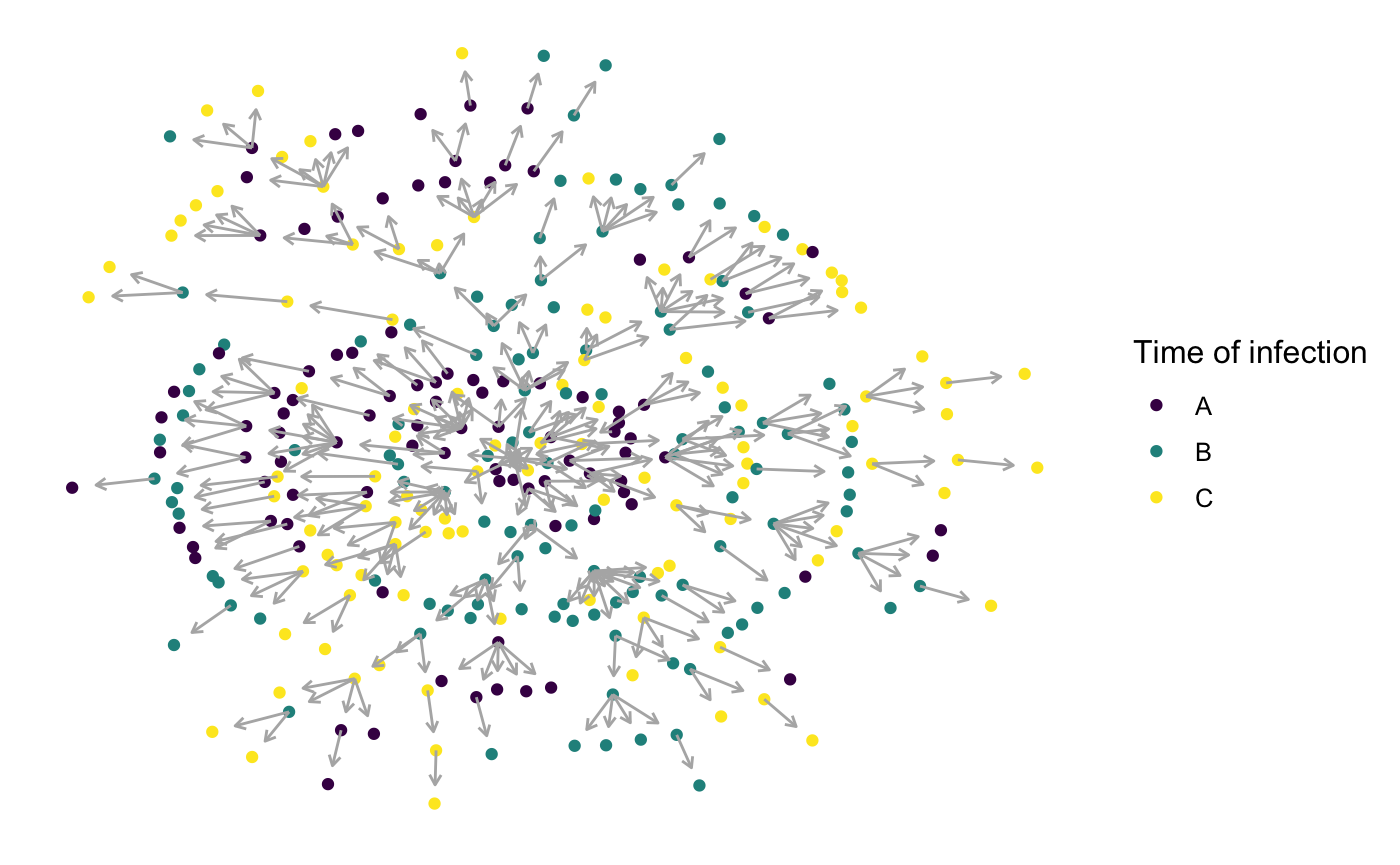
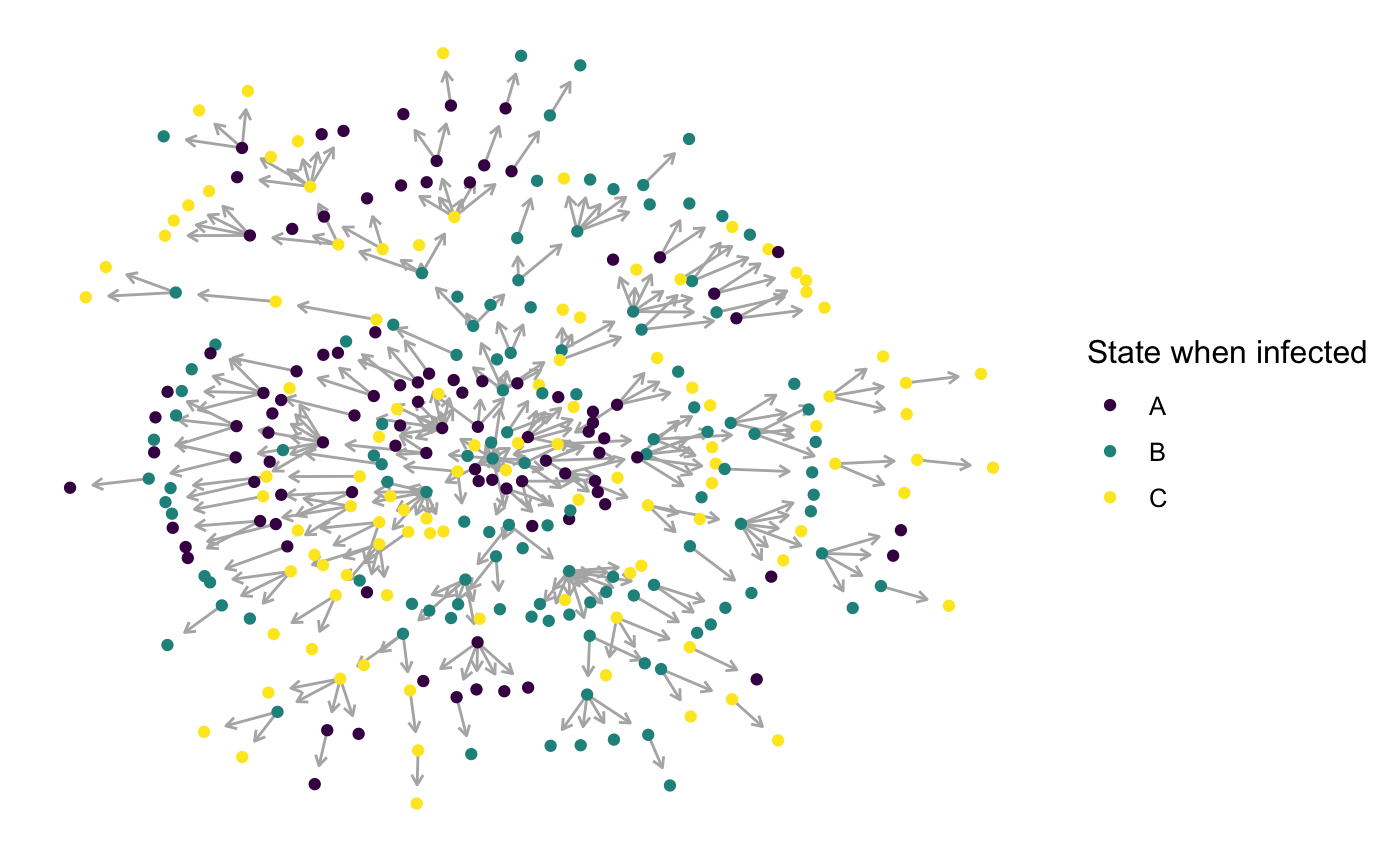
update tutorial
Update tutorial discrete with new visualisation

diff --git a/docs/articles/discrete.html b/docs/articles/discrete.html
@@ -147,7 +147,7 @@
       <h1>Spread of a pathogen in a discrete structured population</h1>
                         <h4 class="author">Sebastian Lequime</h4>
             
-            <h4 class="date">2019-04-26</h4>
+            <h4 class="date">2019-04-29</h4>
       
       <small class="dont-index">Source: <a href="https://github.com/slequime/nosoi/blob/master/vignettes/discrete.Rmd"><code>vignettes/discrete.Rmd</code></a></small>
       <div class="hidden name"><code>discrete.Rmd</code></div>
@@ -457,10 +457,68 @@ graph.simA.network =<span class="st"> </span><span class="kw"><a href="https://w
 
 <span class="co">#plotting the network</span>
 <span class="kw"><a href="https://www.rdocumentation.org/packages/ggplot2/topics/ggplot">ggplot</a></span>(graph.simA.network, <span class="kw"><a href="https://www.rdocumentation.org/packages/ggplot2/topics/aes">aes</a></span>(<span class="dt">x =</span> x, <span class="dt">y =</span> y, <span class="dt">xend =</span> xend, <span class="dt">yend =</span> yend)) <span class="op">+</span>
-<span class="st">  </span><span class="kw"><a href="https://www.rdocumentation.org/packages/ggnetwork/topics/geom_nodes">geom_nodes</a></span>(<span class="kw"><a href="https://www.rdocumentation.org/packages/ggplot2/topics/aes">aes</a></span>(<span class="dt">color=</span>inf.in)) <span class="op">+</span><span class="st"> </span><span class="kw"><a href="https://www.rdocumentation.org/packages/viridis/topics/scale_viridis">scale_color_viridis</a></span>(<span class="dt">name=</span><span class="st">"Time of infection"</span>,<span class="dt">discrete =</span> <span class="ot">TRUE</span>) <span class="op">+</span><span class="st"> </span>
 <span class="st">  </span><span class="kw"><a href="https://www.rdocumentation.org/packages/ggnetwork/topics/geom_edges">geom_edges</a></span>(<span class="dt">color =</span> <span class="st">"grey70"</span>,<span class="dt">arrow =</span> <span class="kw"><a href="https://www.rdocumentation.org/packages/ggplot2/topics/reexports">arrow</a></span>(<span class="dt">length =</span> <span class="kw"><a href="https://www.rdocumentation.org/packages/ggplot2/topics/reexports">unit</a></span>(<span class="fl">0.3</span>, <span class="st">"lines"</span>), <span class="dt">type =</span> <span class="st">"open"</span>)) <span class="op">+</span>
+<span class="st">    </span><span class="kw"><a href="https://www.rdocumentation.org/packages/ggnetwork/topics/geom_nodes">geom_nodes</a></span>(<span class="kw"><a href="https://www.rdocumentation.org/packages/ggplot2/topics/aes">aes</a></span>(<span class="dt">color=</span>inf.in)) <span class="op">+</span><span class="st"> </span><span class="kw"><a href="https://www.rdocumentation.org/packages/viridis/topics/scale_viridis">scale_color_viridis</a></span>(<span class="dt">name=</span><span class="st">"State when infected"</span>,<span class="dt">discrete =</span> <span class="ot">TRUE</span>) <span class="op">+</span><span class="st"> </span>
 <span class="st">  </span><span class="kw"><a href="https://www.rdocumentation.org/packages/ggnetwork/topics/theme_blank">theme_blank</a></span>()</code></pre></div>
 <p><img src="discrete_files/figure-html/visualisation-1.png" width="700"></p>
+<p>The following animated plot shows the number of infected host per state per unit of time, as well as movement events between state at said unit of time.</p>
+<div class="sourceCode"><pre class="sourceCode r"><code class="sourceCode r"><span class="co">#Packages needed:</span>
+<span class="kw"><a href="https://www.rdocumentation.org/packages/base/topics/library">library</a></span>(ggplot2)
+<span class="kw"><a href="https://www.rdocumentation.org/packages/base/topics/library">library</a></span>(viridis)
+<span class="kw"><a href="https://www.rdocumentation.org/packages/base/topics/library">library</a></span>(igraph)
+<span class="kw"><a href="https://www.rdocumentation.org/packages/base/topics/library">library</a></span>(ggnetwork)
+<span class="kw"><a href="https://www.rdocumentation.org/packages/base/topics/library">library</a></span>(tidyverse)
+<span class="kw"><a href="https://www.rdocumentation.org/packages/base/topics/library">library</a></span>(gganimate)
+
+<span class="co">#Getting the layout for the states (as above)</span>
+
+transition.matrix =<span class="st"> </span><span class="kw"><a href="https://www.rdocumentation.org/packages/base/topics/matrix">matrix</a></span>(<span class="kw"><a href="https://www.rdocumentation.org/packages/base/topics/c">c</a></span>(<span class="dv">0</span>,<span class="fl">0.2</span>,<span class="fl">0.4</span>,<span class="fl">0.5</span>,<span class="dv">0</span>,<span class="fl">0.6</span>,<span class="fl">0.5</span>,<span class="fl">0.8</span>,<span class="dv">0</span>),<span class="dt">nrow =</span> <span class="dv">3</span>, <span class="dt">ncol =</span> <span class="dv">3</span>,<span class="dt">dimnames=</span><span class="kw"><a href="https://www.rdocumentation.org/packages/base/topics/list">list</a></span>(<span class="kw"><a href="https://www.rdocumentation.org/packages/base/topics/c">c</a></span>(<span class="st">"A"</span>,<span class="st">"B"</span>,<span class="st">"C"</span>),<span class="kw"><a href="https://www.rdocumentation.org/packages/base/topics/c">c</a></span>(<span class="st">"A"</span>,<span class="st">"B"</span>,<span class="st">"C"</span>)))
+
+melted.transition.matrix &lt;-<span class="st"> </span>reshape2<span class="op">::</span><span class="kw"><a href="https://www.rdocumentation.org/packages/reshape2/topics/melt">melt</a></span>(transition.matrix, <span class="dt">varnames =</span> <span class="kw"><a href="https://www.rdocumentation.org/packages/base/topics/c">c</a></span>(<span class="st">"from"</span>,<span class="st">"to"</span>),<span class="dt">value.name=</span><span class="st">"prob"</span>, <span class="dt">as.is =</span> <span class="ot">TRUE</span>) <span class="co">#melting the matrix go get from -&gt; to in one line with probability</span>
+
+melted.transition.matrix =<span class="st"> </span><span class="kw"><a href="https://www.rdocumentation.org/packages/base/topics/subset">subset</a></span>(melted.transition.matrix, prob<span class="op">!=</span><span class="dv">0</span>)
+
+graph.Matrix &lt;-<span class="st"> </span><span class="kw"><a href="https://www.rdocumentation.org/packages/igraph/topics/graph_from_data_frame">graph.data.frame</a></span>(melted.transition.matrix,<span class="dt">directed=</span>T)
+
+layout =<span class="st"> </span><span class="kw"><a href="https://www.rdocumentation.org/packages/ggnetwork/topics/ggnetwork">ggnetwork</a></span>(graph.Matrix, <span class="dt">layout =</span> <span class="st">"circle"</span>,<span class="dt">arrow.gap=</span><span class="fl">0.18</span>)[<span class="kw"><a href="https://www.rdocumentation.org/packages/base/topics/c">c</a></span>(<span class="dv">1</span><span class="op">:</span><span class="dv">3</span>),<span class="kw"><a href="https://www.rdocumentation.org/packages/base/topics/c">c</a></span>(<span class="dv">1</span>,<span class="dv">2</span>,<span class="dv">4</span>)] <span class="co">#using ggnetwork to provide the layout</span>
+
+<span class="co">#Loading data from the simulation</span>
+
+test =<span class="st"> </span>SimulationA<span class="op">$</span>table.state
+
+<span class="co">#Loop to get the number of infected in each state per unit of time</span>
+results=<span class="kw"><a href="https://www.rdocumentation.org/packages/base/topics/data.frame">data.frame</a></span>()
+<span class="cf">for</span> (i <span class="cf">in</span> <span class="dv">1</span><span class="op">:</span><span class="kw"><a href="https://www.rdocumentation.org/packages/base/topics/Extremes">max</a></span>(test<span class="op">$</span>time.from)) {
+  temp =<span class="st"> </span><span class="kw"><a href="https://www.rdocumentation.org/packages/base/topics/subset">subset</a></span>(test, time.from <span class="op">&lt;=</span><span class="st"> </span>i <span class="op">&amp;</span><span class="st"> </span><span class="kw"><a href="https://www.rdocumentation.org/packages/base/topics/c">c</a></span>(time.to <span class="op">&gt;</span><span class="st"> </span>i <span class="op">|</span><span class="kw"><a href="https://www.rdocumentation.org/packages/base/topics/NA">is.na</a></span>(time.to)))[,<span class="kw"><a href="https://www.rdocumentation.org/packages/base/topics/c">c</a></span>(<span class="st">"hosts.ID"</span>,<span class="st">"state"</span>)]
+  temp<span class="op">$</span>time =<span class="st"> </span>i
+  results=data.table<span class="op">::</span><span class="kw">rbindlist</span>(<span class="kw"><a href="https://www.rdocumentation.org/packages/base/topics/c">c</a></span>(<span class="kw"><a href="https://www.rdocumentation.org/packages/base/topics/list">list</a></span>(temp),<span class="kw"><a href="https://www.rdocumentation.org/packages/base/topics/list">list</a></span>(results)))
+}
+
+test2 =<span class="st"> </span>results <span class="op">%&gt;%</span><span class="st"> </span><span class="kw">group_by</span>(time,state) <span class="op">%&gt;%</span><span class="st"> </span><span class="kw">summarise</span>(<span class="dt">N=</span><span class="kw"><a href="https://www.rdocumentation.org/packages/base/topics/length">length</a></span>(hosts.ID)) <span class="op">%&gt;%</span><span class="st"> </span><span class="kw">left_join</span>(layout,<span class="dt">by=</span><span class="kw"><a href="https://www.rdocumentation.org/packages/base/topics/c">c</a></span>(<span class="st">"state"</span>=<span class="st">"vertex.names"</span>))
+
+<span class="co">#Loop to get the transitions between states and their time</span>
+results2=<span class="kw"><a href="https://www.rdocumentation.org/packages/base/topics/data.frame">data.frame</a></span>()
+<span class="cf">for</span> (i <span class="cf">in</span> <span class="kw"><a href="https://www.rdocumentation.org/packages/base/topics/unique">unique</a></span>(test<span class="op">$</span>hosts.ID)) {
+  subset.current =<span class="st"> </span>test[i]
+  <span class="cf">if</span>(<span class="kw"><a href="https://www.rdocumentation.org/packages/base/topics/nrow">nrow</a></span>(subset.current) <span class="op">&gt;</span><span class="st"> </span><span class="dv">1</span>){
+  <span class="cf">for</span> (j <span class="cf">in</span> <span class="dv">1</span><span class="op">:</span>(<span class="kw"><a href="https://www.rdocumentation.org/packages/base/topics/nrow">nrow</a></span>(subset.current)<span class="op">-</span><span class="dv">1</span>)){
+    temp =<span class="st"> </span><span class="kw">data.table</span>(<span class="dt">hosts.ID=</span>i,<span class="dt">time=</span><span class="kw"><a href="https://www.rdocumentation.org/packages/base/topics/integer">as.integer</a></span>(subset.current[j]<span class="op">$</span>time.to),<span class="dt">from=</span>subset.current[j]<span class="op">$</span>state,<span class="dt">to=</span>subset.current[j<span class="op">+</span><span class="dv">1</span>]<span class="op">$</span>state)
+   results2=data.table<span class="op">::</span><span class="kw">rbindlist</span>(<span class="kw"><a href="https://www.rdocumentation.org/packages/base/topics/c">c</a></span>(<span class="kw"><a href="https://www.rdocumentation.org/packages/base/topics/list">list</a></span>(temp),<span class="kw"><a href="https://www.rdocumentation.org/packages/base/topics/list">list</a></span>(results2)))
+    }}}
+
+test3 =<span class="st"> </span>results2 <span class="op">%&gt;%</span><span class="st"> </span><span class="kw">group_by</span>(time,from,to) <span class="op">%&gt;%</span><span class="st"> </span><span class="kw">summarise</span>(<span class="dt">N=</span><span class="kw"><a href="https://www.rdocumentation.org/packages/base/topics/length">length</a></span>(hosts.ID)) <span class="op">%&gt;%</span><span class="st"> </span><span class="kw">left_join</span>(layout,<span class="dt">by=</span><span class="kw"><a href="https://www.rdocumentation.org/packages/base/topics/c">c</a></span>(<span class="st">"from"</span>=<span class="st">"vertex.names"</span>)) <span class="op">%&gt;%</span><span class="st"> </span><span class="kw">left_join</span>(layout,<span class="dt">by=</span><span class="kw"><a href="https://www.rdocumentation.org/packages/base/topics/c">c</a></span>(<span class="st">"to"</span>=<span class="st">"vertex.names"</span>),<span class="dt">suffix=</span><span class="kw"><a href="https://www.rdocumentation.org/packages/base/topics/c">c</a></span>(<span class="st">"from"</span>,<span class="st">"to"</span>))
+
+<span class="co">#Animated plot (using gganimate):</span>
+animated.plot =<span class="st"> </span><span class="kw"><a href="https://www.rdocumentation.org/packages/ggplot2/topics/ggplot">ggplot</a></span>() <span class="op">+</span>
+<span class="st">  </span><span class="kw"><a href="https://www.rdocumentation.org/packages/ggplot2/topics/geom_point">geom_point</a></span>(<span class="dt">data=</span>test2,<span class="kw"><a href="https://www.rdocumentation.org/packages/ggplot2/topics/aes">aes</a></span>(x,y, <span class="dt">color=</span>state,<span class="dt">size=</span>N)) <span class="op">+</span>
+<span class="st">  </span><span class="kw"><a href="https://www.rdocumentation.org/packages/ggplot2/topics/geom_segment">geom_curve</a></span>(<span class="dt">data=</span>test3, <span class="kw"><a href="https://www.rdocumentation.org/packages/ggplot2/topics/aes">aes</a></span>(<span class="dt">x=</span>xfrom,<span class="dt">y=</span>yfrom,<span class="dt">xend=</span>xto,<span class="dt">yend=</span>yto),<span class="dt">arrow =</span> <span class="kw"><a href="https://www.rdocumentation.org/packages/ggplot2/topics/reexports">arrow</a></span>(<span class="dt">length =</span> <span class="kw"><a href="https://www.rdocumentation.org/packages/ggplot2/topics/reexports">unit</a></span>(<span class="fl">0.03</span>, <span class="st">"npc"</span>),<span class="dt">type =</span> <span class="st">"closed"</span>),<span class="dt">curvature =</span> <span class="fl">0.2</span>,<span class="dt">color=</span><span class="st">"gray50"</span>) <span class="op">+</span><span class="st"> </span>
+<span class="st">  </span><span class="kw"><a href="https://www.rdocumentation.org/packages/viridis/topics/scale_viridis">scale_color_viridis</a></span>(<span class="dt">guide=</span><span class="ot">FALSE</span>,<span class="dt">discrete=</span><span class="ot">TRUE</span>) <span class="op">+</span><span class="st"> </span><span class="kw"><a href="https://www.rdocumentation.org/packages/ggnetwork/topics/theme_blank">theme_blank</a></span>() <span class="op">+</span><span class="st"> </span><span class="kw"><a href="https://www.rdocumentation.org/packages/ggplot2/topics/lims">ylim</a></span>(<span class="op">-</span><span class="fl">0.5</span>,<span class="fl">1.2</span>) <span class="op">+</span><span class="st"> </span><span class="kw"><a href="https://www.rdocumentation.org/packages/ggplot2/topics/lims">xlim</a></span>(<span class="op">-</span><span class="fl">0.5</span>,<span class="fl">1.2</span>) <span class="op">+</span><span class="st"> </span><span class="kw"><a href="https://www.rdocumentation.org/packages/ggplot2/topics/geom_text">geom_text</a></span>(<span class="dt">data=</span>layout,<span class="kw"><a href="https://www.rdocumentation.org/packages/ggplot2/topics/aes">aes</a></span>(<span class="dt">x=</span>x,<span class="dt">y=</span>y<span class="op">-</span><span class="fl">0.2</span>,<span class="dt">label =</span> vertex.names), <span class="dt">size =</span> <span class="dv">6</span>,<span class="dt">color=</span><span class="st">"black"</span>) <span class="op">+</span><span class="st"> </span>
+<span class="st">  </span><span class="kw"><a href="https://www.rdocumentation.org/packages/ggplot2/topics/geom_text">geom_text</a></span>(<span class="dt">data=</span>test2,<span class="kw"><a href="https://www.rdocumentation.org/packages/ggplot2/topics/aes">aes</a></span>(<span class="dt">x=</span>x,<span class="dt">y=</span>y<span class="op">+</span><span class="fl">0.2</span>,<span class="dt">label =</span> N), <span class="dt">size =</span> <span class="dv">6</span>,<span class="dt">color=</span><span class="st">"black"</span>) <span class="op">+</span><span class="st"> </span>
+<span class="kw"><a href="https://www.rdocumentation.org/packages/gganimate/topics/transition_states">transition_states</a></span>(time) <span class="op">+</span><span class="st"> </span><span class="kw"><a href="https://www.rdocumentation.org/packages/ggplot2/topics/scale_size">scale_size_continuous</a></span>(<span class="dt">guide=</span><span class="ot">FALSE</span>,<span class="dt">range =</span> <span class="kw"><a href="https://www.rdocumentation.org/packages/base/topics/c">c</a></span>(<span class="dv">5</span>, <span class="dv">30</span>)) <span class="op">+</span>
+<span class="st">  </span><span class="kw"><a href="https://www.rdocumentation.org/packages/ggplot2/topics/labs">labs</a></span>(<span class="dt">title =</span> <span class="st">"Time: {closest_state}"</span>)
+
+<span class="kw"><a href="https://www.rdocumentation.org/packages/gganimate/topics/animate">animate</a></span>(animated.plot, <span class="dt">nframes=</span>SimulationA<span class="op">$</span>total.time<span class="op">*</span><span class="dv">2</span><span class="op">+</span><span class="dv">10</span>,<span class="dt">duration=</span><span class="dv">40</span>,<span class="dt">end_pause=</span><span class="dv">10</span>)</code></pre></div>
+<p><img src="discrete_files/figure-html/visualisationMatrix-1.gif"><!-- --></p>
 </div>
 </div>
 <div id="dual-host-pathogen" class="section level1">

diff --git a/docs/articles/vector-competence.html b/docs/articles/vector-competence.html
@@ -147,7 +147,7 @@
       <h1>Epidemiological impact of mosquito vector competence</h1>
                         <h4 class="author">Sebastian Lequime</h4>
             
-            <h4 class="date">2019-04-26</h4>
+            <h4 class="date">2019-04-29</h4>
       
       <small class="dont-index">Source: <a href="https://github.com/slequime/nosoi/blob/master/vignettes/vector-competence.Rmd"><code>vignettes/vector-competence.Rmd</code></a></small>
       <div class="hidden name"><code>vector-competence.Rmd</code></div>

diff --git a/docs/articles/continuous.html b/docs/articles/continuous.html
@@ -147,7 +147,7 @@
       <h1>Spread of a pathogen in a continuous space</h1>
                         <h4 class="author">Sebastian Lequime</h4>
             
-            <h4 class="date">2019-04-26</h4>
+            <h4 class="date">2019-04-29</h4>
       
       <small class="dont-index">Source: <a href="https://github.com/slequime/nosoi/blob/master/vignettes/continuous.Rmd"><code>vignettes/continuous.Rmd</code></a></small>
       <div class="hidden name"><code>continuous.Rmd</code></div>

diff --git a/docs/articles/dengue.html b/docs/articles/dengue.html
@@ -147,7 +147,7 @@
       <h1>Spread of dengue virus in a discrete space</h1>
                         <h4 class="author">Sebastian Lequime</h4>
             
-            <h4 class="date">2019-04-26</h4>
+            <h4 class="date">2019-04-29</h4>
       
       <small class="dont-index">Source: <a href="https://github.com/slequime/nosoi/blob/master/vignettes/dengue.Rmd"><code>vignettes/dengue.Rmd</code></a></small>
       <div class="hidden name"><code>dengue.Rmd</code></div>

diff --git a/docs/articles/none.html b/docs/articles/none.html
@@ -147,7 +147,7 @@
       <h1>Spread of a pathogen in a homogeneous population</h1>
                         <h4 class="author">Sebastian Lequime</h4>
             
-            <h4 class="date">2019-04-26</h4>
+            <h4 class="date">2019-04-29</h4>
       
       <small class="dont-index">Source: <a href="https://github.com/slequime/nosoi/blob/master/vignettes/none.Rmd"><code>vignettes/none.Rmd</code></a></small>
       <div class="hidden name"><code>none.Rmd</code></div>

diff --git a/docs/articles/ebola.html b/docs/articles/ebola.html
@@ -147,7 +147,7 @@
       <h1>Spread of Ebola virus in a continuous space</h1>
                         <h4 class="author">Sebastian Lequime</h4>
             
-            <h4 class="date">2019-04-26</h4>
+            <h4 class="date">2019-04-29</h4>
       
       <small class="dont-index">Source: <a href="https://github.com/slequime/nosoi/blob/master/vignettes/ebola.Rmd"><code>vignettes/ebola.Rmd</code></a></small>
       <div class="hidden name"><code>ebola.Rmd</code></div>

diff --git a/docs/articles/get-started.html b/docs/articles/get-started.html
@@ -147,7 +147,7 @@
       <h1>Get started</h1>
                         <h4 class="author">Sebastian Lequime</h4>
             
-            <h4 class="date">2019-04-26</h4>
+            <h4 class="date">2019-04-29</h4>
       
       <small class="dont-index">Source: <a href="https://github.com/slequime/nosoi/blob/master/vignettes/get-started.Rmd"><code>vignettes/get-started.Rmd</code></a></small>
       <div class="hidden name"><code>get-started.Rmd</code></div>

diff --git a/docs/articles/nosoi.html b/docs/articles/nosoi.html
@@ -147,7 +147,7 @@
       <h1>General principles</h1>
                         <h4 class="author">Sebastian Lequime</h4>
             
-            <h4 class="date">2019-04-26</h4>
+            <h4 class="date">2019-04-29</h4>
       
       <small class="dont-index">Source: <a href="https://github.com/slequime/nosoi/blob/master/vignettes/nosoi.Rmd"><code>vignettes/nosoi.Rmd</code></a></small>
       <div class="hidden name"><code>nosoi.Rmd</code></div>
